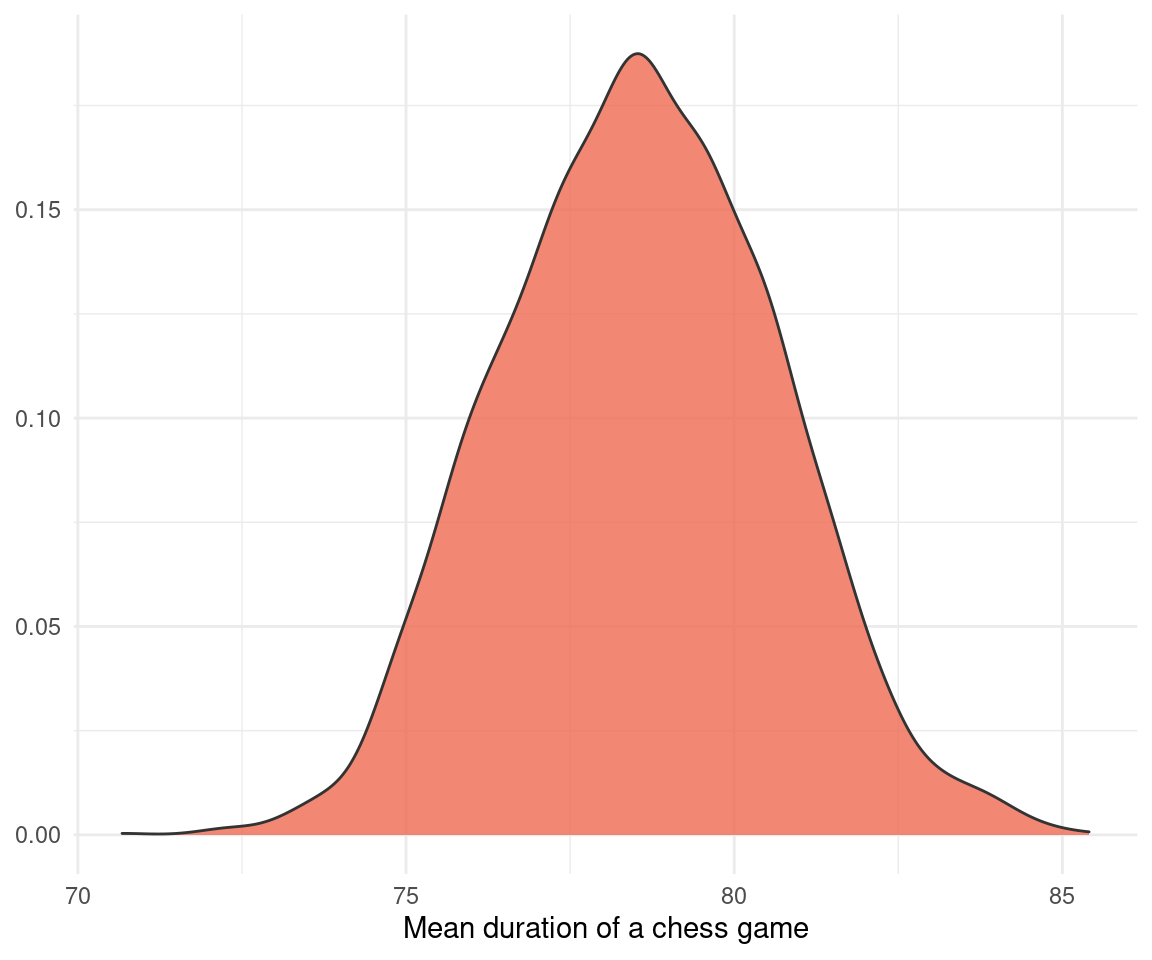
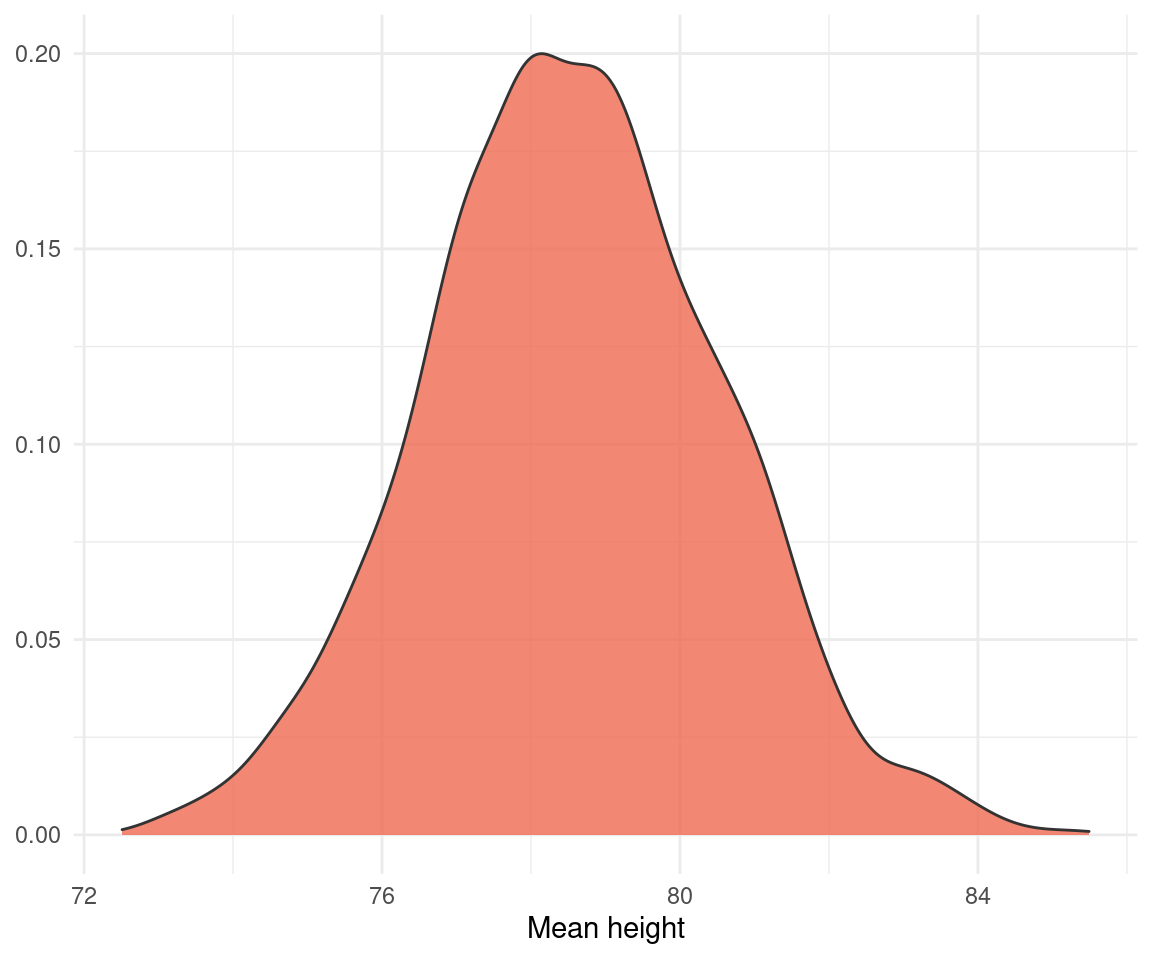
add quantile regression to wilcoxon signed rank

diff --git a/content/post/wilcoxon_signed_rank.html b/content/post/wilcoxon_signed_rank.html
@@ -8,7 +8,7 @@ tags: [Regression in disguise, Regression, t-test, Bayes, Statistics]
 subtitle: ''
 summary: 'Modeling the central tendency within one sample without the normality assumption'
 authors: [Gregor Mathes]
-lastmod: "01 April, 2021"
+lastmod: "12 April, 2021"
 featured: no
 projects: [Regression tests]
 output:
@@ -181,7 +181,7 @@ wilcox_results</code></pre>
 <h2>The other black box</h2>
 <p>Here’s the proof that the Wilcoxon signed-rank test is a one sample t-test with sign-ranked transformed data:</p>
 <pre class="r"><code>dat_chess %&gt;% 
-  signed_rank() %&gt;% 
+  signed_rank() %&gt;%
   t.test(mu = 75)</code></pre>
 <pre><code>## 
 ##  One Sample t-test
@@ -212,14 +212,34 @@ ols_result</code></pre>
 <pre class="r"><code>confint(ols_result)</code></pre>
 <pre><code>##                2.5 %   97.5 %
 ## (Intercept) 92.42942 108.5706</code></pre>
-<p>This is the same as for the t-test on sign-ranked data.</p>
+<p>This is the same as for the t-test on sign-ranked data. But we are not restricted to model the mean via regression. With the help of a quantile regression, we can model the median instead. But we need the <code>quantreg</code> package for this. Note that the <code>quantreg</code> package uses the sign ranking by default.</p>
+<pre class="r"><code>library(quantreg)
+
+qr_result &lt;- rq(dat_chess ~ 1)</code></pre>
+<pre><code>## Warning in rq.fit.br(x, y, tau = tau, ...): Solution may be nonunique</code></pre>
+<pre class="r"><code>qr_result</code></pre>
+<pre><code>## Call:
+## rq(formula = dat_chess ~ 1)
+## 
+## Coefficients:
+## (Intercept) 
+##    77.97497 
+## 
+## Degrees of freedom: 200 total; 199 residual</code></pre>
+<p>We can get confidence intervals for the median via bootstrapping the standard deviation:</p>
+<pre class="r"><code>qr_se &lt;- summary(qr_result, se = &quot;boot&quot;)[[3]][2] * 1.96
+  
+qr_confint &lt;- c(qr_result$coefficients[[1]] - qr_se, 
+                c(qr_result$coefficients[[1]] + qr_se))
+qr_confint</code></pre>
+<pre><code>## [1] 73.10056 82.84938</code></pre>
 </div>
 </div>
 <div id="bayesian-estimation" class="section level1">
 <h1>Bayesian estimation</h1>
 <div id="the-model" class="section level2">
 <h2>The model</h2>
-<p>We could already see that we get into weird terrain with these parametric and non-parametric stuff. But reverend Bayes comes to the rescue. We can model the whole posterior distribution for our sample and can even verify the null hypothesis, not only reject it. And we are not bound to arbitrary thresholds, but can base our decision on the whole set of information, instead of point estimates. As I am playing chess from time to time, I know that most games are quite short but that some games tend to be extremely long. I have read the stackexchange post mentioned above and therefore have prior knowledge that the duration of chess games is log-normal distributed. We can use this information in the Bayesian model:</p>
+<p>We could already see that we get into weird terrain with these parametric and non-parametric stuff. But reverend Bayes comes to the rescue. We can model the whole posterior distribution for our sample and can even verify the null hypothesis, not only reject it. And we are not bound to arbitrary thresholds, but can base our decision on the whole set of information, instead of point estimates. As I am playing chess from time to time, I know that most games are quite short but that some games tend to be extremely long. I have written the stackexchange post mentioned above and therefore have prior knowledge that the duration of chess games is log-normal distributed. We can use this information in the Bayesian model:</p>
 <pre class="r"><code>library(brms)</code></pre>
 <pre><code>## Lade nötiges Paket: Rcpp</code></pre>
 <pre><code>## Loading &#39;brms&#39; package (version 2.15.0). Useful instructions
@@ -247,7 +267,7 @@ result_posterior %&gt;%
   mutate(across(b_Intercept:sigma, exp)) %&gt;% 
   ggplot(aes(b_Intercept)) +
   geom_density(colour = &quot;grey20&quot;, fill = &quot;coral2&quot;, alpha = 0.8) +
-  labs(x = &quot;Mean duration of a chess game&quot;, y = NULL) + 
+  labs(x = &quot;Mean height&quot;, y = NULL) + 
   theme_minimal() </code></pre>
 <p><img src="/post/wilcoxon_signed_rank_files/figure-html/posterior%20brms-1.png" width="576" /></p>
 <p>And we can proceed to test our hypothesis:</p>
@@ -258,7 +278,7 @@ result_posterior %&gt;%
 hyp_test </code></pre>
 <pre><code>## Hypothesis Tests for class :
 ##               Hypothesis Estimate Est.Error CI.Lower CI.Upper Evid.Ratio
-## 1 (b_Intercept)-(75) &gt; 0     3.56      2.08     0.19     6.91      24.64
+## 1 (b_Intercept)-(75) &gt; 0     3.57      1.98     0.34     6.83      26.78
 ##   Post.Prob Star
 ## 1      0.96    *
 ## ---
@@ -266,31 +286,38 @@ hyp_test </code></pre>
 ## &#39;*&#39;: For one-sided hypotheses, the posterior probability exceeds 95%;
 ## for two-sided hypotheses, the value tested against lies outside the 95%-CI.
 ## Posterior probabilities of point hypotheses assume equal prior probabilities.</code></pre>
-<p>It’s 24.6 times more likely that the average chess game from the sample takes more than 75 minutes, than that the average is less than 75 minutes.</p>
+<p>It’s 26.8 times more likely that the average chess game from the sample takes more than 75 minutes, than that the average is less than 75 minutes.</p>
 </div>
 </div>
 <div id="comparison" class="section level1">
 <h1>Comparison</h1>
 <p>As we simulated the data by ourselves, we can compare each method to the true value. We used a value of 4.37 for the log-normal mean, and 0.45 for the log-normal standard deviation. We need to transform the values for each method to the log-normal scale for a proper comparison.</p>
-<pre class="r"><code>dat_comparison &lt;- tibble(method = c(&quot;OLS&quot;, 
-                  &quot;Wilcoxon&quot;, 
-                  &quot;Bayes&quot;), 
+<pre class="r"><code>dat_comparison &lt;- tibble(method = c(&quot;OLS&quot;,
+                                    &quot;Quantreg&quot;,
+                                    &quot;Wilcoxon&quot;,
+                                    &quot;Bayes&quot;), 
        mean = c(ols_result$coefficients[1] %&gt;% log(), 
+                qr_result$coefficients[1] %&gt;% log(),
                 wilcox_results$estimate[1] %&gt;% log(), 
                 fixef(bayes_result)[1]), 
        mean_lower = c(confint(ols_result)[1]%&gt;% log(), 
+                      qr_confint[1] %&gt;% log(),
                       wilcox_results$conf.int[1]%&gt;% log(),
                       fixef(bayes_result)[3]),
        mean_upper = c(confint(ols_result)[2]%&gt;% log(), 
+                      qr_confint[2] %&gt;% log(),
                       wilcox_results$conf.int[2]%&gt;% log(),
                       fixef(bayes_result)[4]),
        sd = c(NA,
+              summary(qr_result, se = &quot;boot&quot;)[[3]][2] %&gt;% log(), 
               NA, 
               posterior_summary(bayes_result)[2, 1]), 
        sd_lower = c(NA,
                     NA,
+                    NA,
                     posterior_summary(bayes_result)[2, 3]),
        sd_upper = c(NA,
+                    NA,
                     NA,
                     posterior_summary(bayes_result)[2, 4]))
        
@@ -320,6 +347,15 @@ dat_comparison %&gt;%
 <td align="right">NA</td>
 </tr>
 <tr class="even">
+<td align="left">Quantreg</td>
+<td align="right">4.356</td>
+<td align="right">4.292</td>
+<td align="right">4.417</td>
+<td align="right">0.896</td>
+<td align="right">NA</td>
+<td align="right">NA</td>
+</tr>
+<tr class="odd">
 <td align="left">Wilcoxon</td>
 <td align="right">4.386</td>
 <td align="right">4.335</td>
@@ -328,18 +364,18 @@ dat_comparison %&gt;%
 <td align="right">NA</td>
 <td align="right">NA</td>
 </tr>
-<tr class="odd">
+<tr class="even">
 <td align="left">Bayes</td>
 <td align="right">4.364</td>
 <td align="right">4.314</td>
-<td align="right">4.413</td>
-<td align="right">0.377</td>
-<td align="right">0.343</td>
-<td align="right">0.418</td>
+<td align="right">4.414</td>
+<td align="right">0.378</td>
+<td align="right">0.342</td>
+<td align="right">0.417</td>
 </tr>
 </tbody>
 </table>
-<p>We can see that we get a whole posterior on sigma as well with Bayesian estimation. Let’s visualize the comparison:</p>
+<p>We can see that we get a whole posterior on sigma as well with Bayesian estimation. Let’s visualize the comparison with the actual value highlighted in red:</p>
 <pre class="r"><code>dat_comparison %&gt;% 
   ggplot(aes(mean, method, 
              xmin = mean_lower, 
@@ -350,7 +386,7 @@ dat_comparison %&gt;%
   labs(x = &quot;Log of the mean duration of chess games&quot;, 
        y = NULL) +
   theme_minimal()</code></pre>
-<p><img src="/post/wilcoxon_signed_rank_files/figure-html/unnamed-chunk-1-1.png" width="576" /></p>
+<p><img src="/post/wilcoxon_signed_rank_files/figure-html/comparison%20plot-1.png" width="576" /></p>
 <p>We can transform that to the normal scale by taking the exponential:</p>
 <pre class="r"><code>dat_comparison %&gt;% 
   mutate(across(mean:mean_upper, exp)) %&gt;% 
@@ -360,11 +396,11 @@ dat_comparison %&gt;%
   geom_vline(xintercept = exp(4.37), 
              size = 2, colour = &quot;coral2&quot;) +
   geom_pointrange(size = 0.9) +
-  labs(x = &quot;Mean duration of chess games&quot;, 
+  labs(x = &quot;Log of the mean duration of chess games&quot;, 
        y = NULL) +
   theme_minimal()</code></pre>
 <p><img src="/post/wilcoxon_signed_rank_files/figure-html/standard%20deviantion-1.png" width="576" /></p>
-<p>The Bayesian regression performs best, however the Wilcoxon test still is close to the true value. This shows that when all assumptions are met, the Wilcoxon test can still be a powerfull tool. Just don’t use it without knowing what’s going on. We can see that an ordinary least squares regression (OLS) is quite far off, because it models the mean and not the median. It is therefore less robust. And I would assume that the Wilcoxon test in R performs some extra steps and corrections that leads to the better estimate for our data.</p>
+<p>The Bayesian regression performs best, however the Wilcoxon test still is close to the true value, similar to the quantile regression. This shows that when all assumptions are met, the Wilcoxon test can still be a powerful tool. Just don’t use it without knowing what’s going on. We can see that an ordinary least squares regression (OLS) is quite far off, because it models the mean and not the median. It is therefore less robust. And I would assume that the Wilcoxon test in R performs some extra steps and corrections that leads to the better estimate for our data.</p>
 </div>
 <div id="conclusion" class="section level1">
 <h1>Conclusion</h1>
@@ -391,48 +427,50 @@ dat_comparison %&gt;%
 ## [1] stats     graphics  grDevices utils     datasets  methods   base     
 ## 
 ## other attached packages:
-##  [1] brms_2.15.0     Rcpp_1.0.6      forcats_0.5.0   stringr_1.4.0  
-##  [5] dplyr_1.0.3     purrr_0.3.4     readr_1.4.0     tidyr_1.1.2    
-##  [9] tibble_3.0.5    ggplot2_3.3.3   tidyverse_1.3.0
+##  [1] brms_2.15.0     Rcpp_1.0.6      quantreg_5.83   SparseM_1.78   
+##  [5] forcats_0.5.0   stringr_1.4.0   dplyr_1.0.3     purrr_0.3.4    
+##  [9] readr_1.4.0     tidyr_1.1.2     tibble_3.0.5    ggplot2_3.3.3  
+## [13] tidyverse_1.3.0
 ## 
 ## loaded via a namespace (and not attached):
 ##   [1] minqa_1.2.4          colorspace_2.0-0     ellipsis_0.3.1      
 ##   [4] ggridges_0.5.3       rsconnect_0.8.16     markdown_1.1        
 ##   [7] base64enc_0.1-3      fs_1.5.0             rstudioapi_0.13     
-##  [10] rstan_2.21.2         farver_2.0.3         DT_0.17             
-##  [13] fansi_0.4.2          mvtnorm_1.1-1        lubridate_1.7.9.2   
-##  [16] xml2_1.3.2           codetools_0.2-18     bridgesampling_1.0-0
-##  [19] splines_4.0.4        knitr_1.30           shinythemes_1.2.0   
-##  [22] bayesplot_1.8.0      projpred_2.0.2       jsonlite_1.7.2      
-##  [25] nloptr_1.2.2.2       broom_0.7.3          dbplyr_2.0.0        
-##  [28] shiny_1.6.0          compiler_4.0.4       httr_1.4.2          
-##  [31] backports_1.2.1      assertthat_0.2.1     Matrix_1.3-2        
-##  [34] fastmap_1.1.0        cli_2.2.0            later_1.1.0.1       
-##  [37] prettyunits_1.1.1    htmltools_0.5.1.1    tools_4.0.4         
-##  [40] igraph_1.2.6         coda_0.19-4          gtable_0.3.0        
-##  [43] glue_1.4.2           reshape2_1.4.4       V8_3.4.0            
-##  [46] cellranger_1.1.0     vctrs_0.3.6          nlme_3.1-152        
-##  [49] blogdown_1.1         crosstalk_1.1.1      xfun_0.20           
-##  [52] ps_1.5.0             lme4_1.1-26          rvest_0.3.6         
-##  [55] mime_0.9             miniUI_0.1.1.1       lifecycle_0.2.0     
-##  [58] gtools_3.8.2         statmod_1.4.35       MASS_7.3-53.1       
-##  [61] zoo_1.8-8            scales_1.1.1         colourpicker_1.1.0  
-##  [64] hms_1.0.0            promises_1.1.1       Brobdingnag_1.2-6   
-##  [67] parallel_4.0.4       inline_0.3.17        shinystan_2.5.0     
-##  [70] curl_4.3             gamm4_0.2-6          yaml_2.2.1          
-##  [73] gridExtra_2.3        StanHeaders_2.21.0-7 loo_2.4.1           
-##  [76] stringi_1.5.3        highr_0.8            dygraphs_1.1.1.6    
-##  [79] pkgbuild_1.2.0       boot_1.3-27          rlang_0.4.10        
-##  [82] pkgconfig_2.0.3      matrixStats_0.57.0   evaluate_0.14       
-##  [85] lattice_0.20-41      rstantools_2.1.1     htmlwidgets_1.5.3   
-##  [88] labeling_0.4.2       processx_3.4.5       tidyselect_1.1.0    
-##  [91] plyr_1.8.6           magrittr_2.0.1       bookdown_0.21       
-##  [94] R6_2.5.0             generics_0.1.0       DBI_1.1.1           
-##  [97] pillar_1.4.7         haven_2.3.1          withr_2.4.1         
-## [100] mgcv_1.8-33          xts_0.12.1           abind_1.4-5         
-## [103] modelr_0.1.8         crayon_1.3.4         rmarkdown_2.6       
-## [106] grid_4.0.4           readxl_1.3.1         callr_3.5.1         
-## [109] threejs_0.3.3        reprex_1.0.0         digest_0.6.27       
-## [112] xtable_1.8-4         httpuv_1.5.5         RcppParallel_5.0.2  
-## [115] stats4_4.0.4         munsell_0.5.0        shinyjs_2.0.0</code></pre>
+##  [10] rstan_2.21.2         farver_2.0.3         MatrixModels_0.4-1  
+##  [13] DT_0.17              fansi_0.4.2          mvtnorm_1.1-1       
+##  [16] lubridate_1.7.9.2    xml2_1.3.2           codetools_0.2-18    
+##  [19] bridgesampling_1.0-0 splines_4.0.4        knitr_1.30          
+##  [22] shinythemes_1.2.0    bayesplot_1.8.0      projpred_2.0.2      
+##  [25] jsonlite_1.7.2       nloptr_1.2.2.2       broom_0.7.3         
+##  [28] dbplyr_2.0.0         shiny_1.6.0          compiler_4.0.4      
+##  [31] httr_1.4.2           backports_1.2.1      assertthat_0.2.1    
+##  [34] Matrix_1.3-2         fastmap_1.1.0        cli_2.2.0           
+##  [37] later_1.1.0.1        prettyunits_1.1.1    htmltools_0.5.1.1   
+##  [40] tools_4.0.4          igraph_1.2.6         coda_0.19-4         
+##  [43] gtable_0.3.0         glue_1.4.2           reshape2_1.4.4      
+##  [46] V8_3.4.0             cellranger_1.1.0     vctrs_0.3.6         
+##  [49] nlme_3.1-152         conquer_1.0.2        blogdown_1.1        
+##  [52] crosstalk_1.1.1      xfun_0.20            ps_1.5.0            
+##  [55] lme4_1.1-26          rvest_0.3.6          miniUI_0.1.1.1      
+##  [58] mime_0.9             lifecycle_0.2.0      gtools_3.8.2        
+##  [61] statmod_1.4.35       MASS_7.3-53.1        zoo_1.8-8           
+##  [64] scales_1.1.1         colourpicker_1.1.0   hms_1.0.0           
+##  [67] promises_1.1.1       Brobdingnag_1.2-6    parallel_4.0.4      
+##  [70] inline_0.3.17        shinystan_2.5.0      curl_4.3            
+##  [73] gamm4_0.2-6          yaml_2.2.1           gridExtra_2.3       
+##  [76] StanHeaders_2.21.0-7 loo_2.4.1            stringi_1.5.3       
+##  [79] highr_0.8            dygraphs_1.1.1.6     pkgbuild_1.2.0      
+##  [82] boot_1.3-27          rlang_0.4.10         pkgconfig_2.0.3     
+##  [85] matrixStats_0.57.0   evaluate_0.14        lattice_0.20-41     
+##  [88] rstantools_2.1.1     htmlwidgets_1.5.3    labeling_0.4.2      
+##  [91] processx_3.4.5       tidyselect_1.1.0     plyr_1.8.6          
+##  [94] magrittr_2.0.1       bookdown_0.21        R6_2.5.0            
+##  [97] generics_0.1.0       DBI_1.1.1            pillar_1.4.7        
+## [100] haven_2.3.1          withr_2.4.1          mgcv_1.8-33         
+## [103] xts_0.12.1           abind_1.4-5          modelr_0.1.8        
+## [106] crayon_1.3.4         rmarkdown_2.6        grid_4.0.4          
+## [109] readxl_1.3.1         callr_3.5.1          threejs_0.3.3       
+## [112] reprex_1.0.0         digest_0.6.27        xtable_1.8-4        
+## [115] httpuv_1.5.5         RcppParallel_5.0.2   stats4_4.0.4        
+## [118] munsell_0.5.0        shinyjs_2.0.0</code></pre>
 </div>
